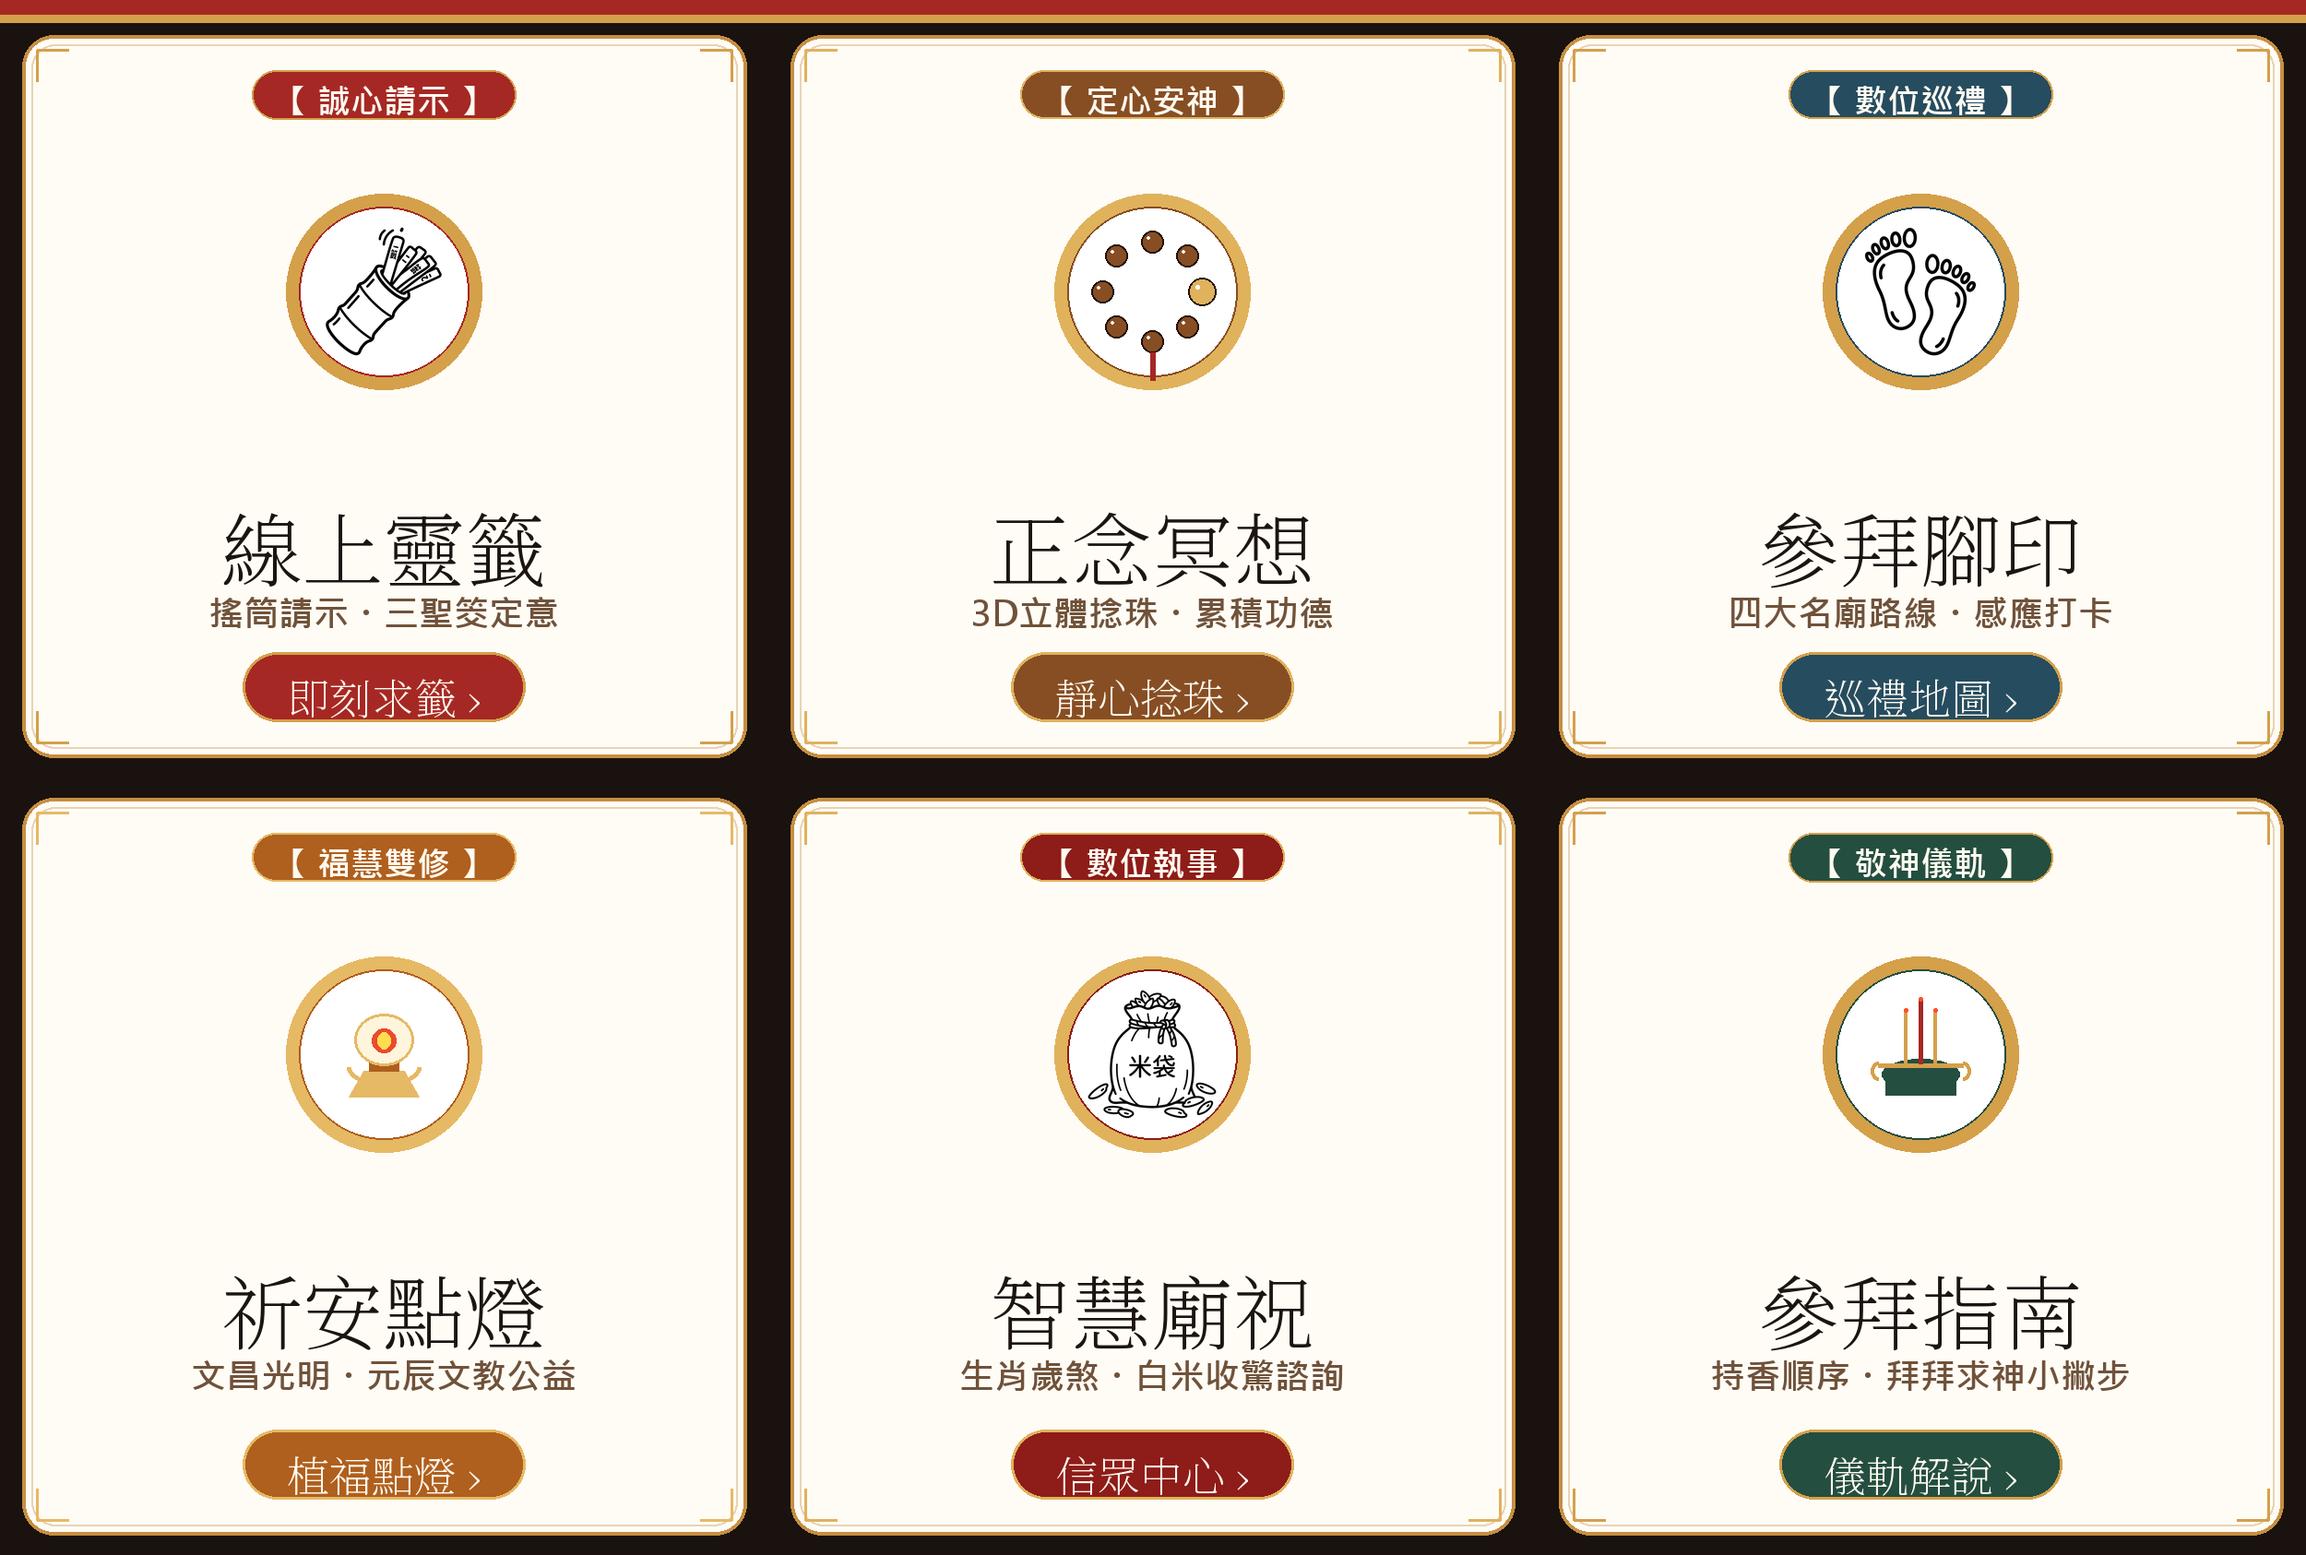
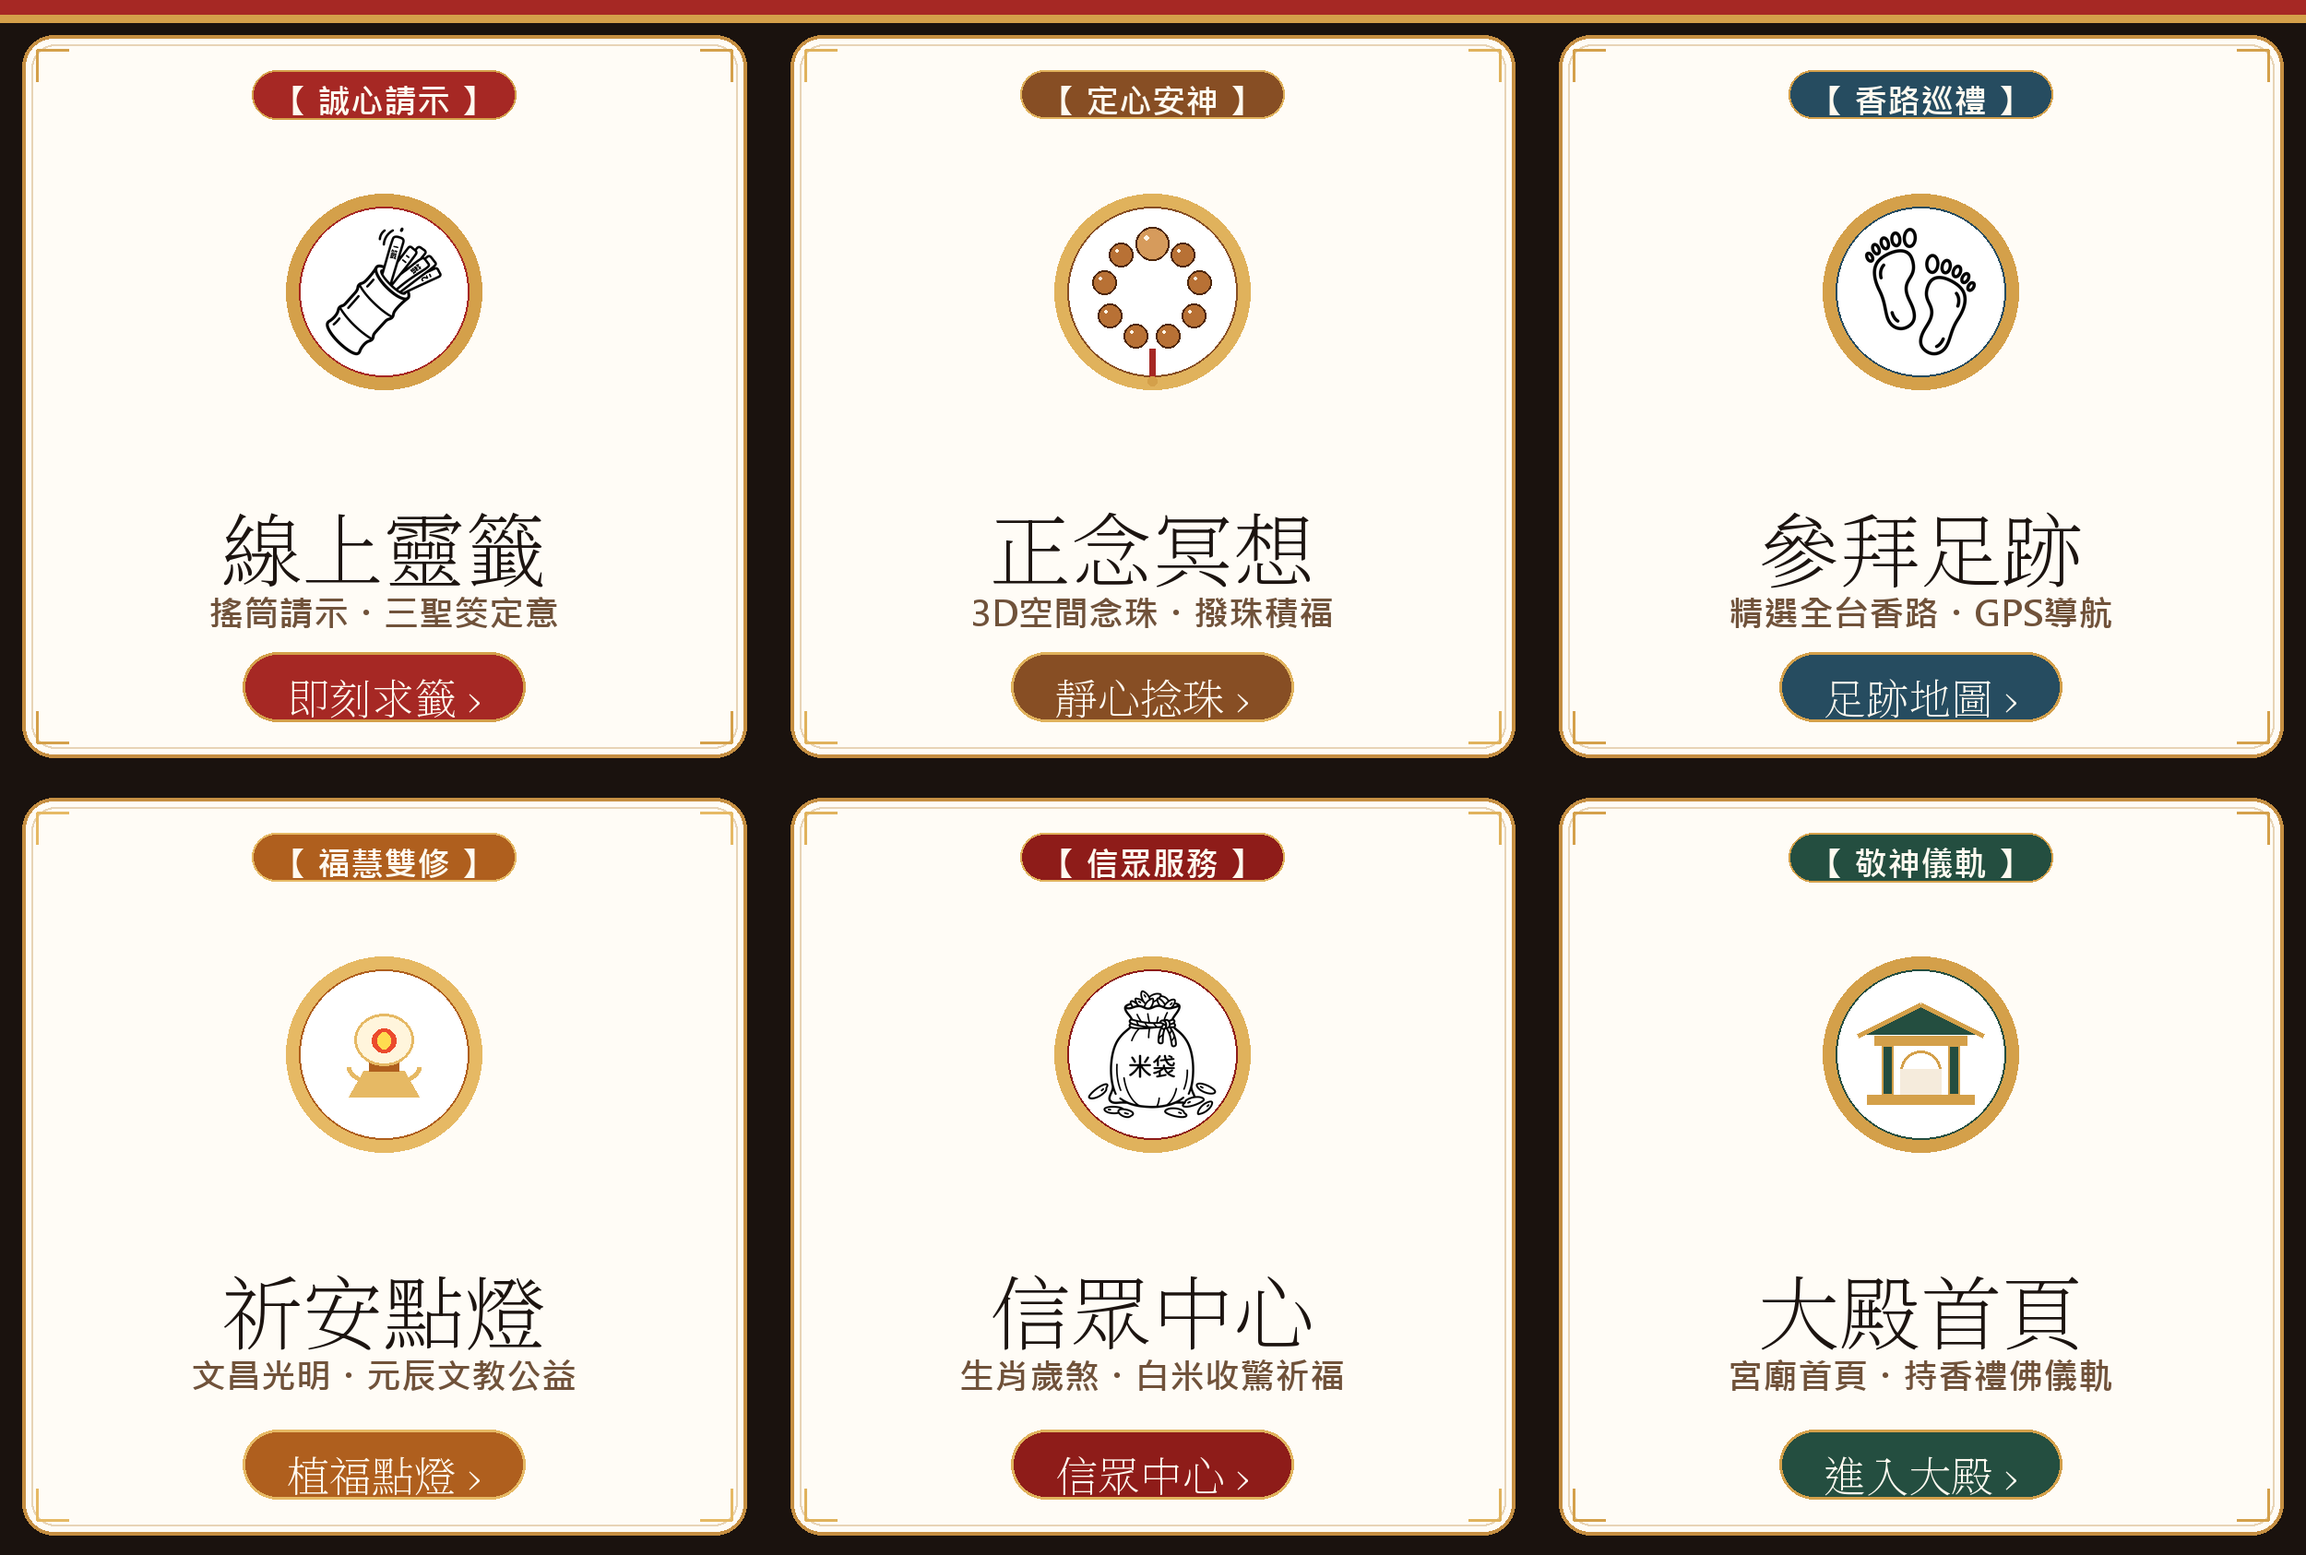
feat(richmenu): update rich menu visual graphics and bind all 6 areas to correct LIFF routing URLs

diff --git a/index.html b/index.html
@@ -4506,12 +4506,32 @@
       initTipsTicker();
       initLbFooterTicker();
 
-      // 檢查網址是否有 ?page=divination 或 ?page=meditation
+      // 依據 URL 參數（?page=... 或 ?modal=...）自動導航至對應頁面或彈窗
       const urlParams = new URLSearchParams(window.location.search);
-      if (urlParams.get('page') === 'divination') {
+      const targetPage = urlParams.get('page');
+      const targetModal = urlParams.get('modal');
+
+      if (targetPage === 'divination' || targetPage === 'shake') {
         openDivinationFlow();
-      } else if (urlParams.get('page') === 'meditation') {
+      } else if (targetPage === 'meditation') {
         openMeditationPage();
+      } else if (targetPage === 'routes' || targetPage === 'footprints') {
+        openRouteListPage();
+      } else if (targetPage === 'routedetail') {
+        const routeId = urlParams.get('route') || 'wanchun';
+        openRouteDetailPage(routeId);
+      } else if (targetPage === 'lighting') {
+        openLightingPage();
+      } else if (targetPage === 'profile' || targetModal === 'profile') {
+        openLbModal('profileModal');
+      } else if (targetModal === 'zodiac') {
+        openLbModal('zodiacModal');
+      } else if (targetModal === 'shoujing') {
+        openLbModal('shoujingModal');
+      } else if (targetModal === 'sticker') {
+        openLbModal('stickerModal');
+      } else if (targetModal === 'charity') {
+        openLbModal('charityModal');
       }
     });
 

diff --git a/backend/generate_richmenu.py b/backend/generate_richmenu.py
@@ -45,7 +45,7 @@ def create_rich_menu():
     draw.rectangle([0, 0, WIDTH, 16], fill=(166, 40, 36, 255))
     draw.rectangle([0, 16, WIDTH, 24], fill=(212, 160, 74, 255))
 
-    # 六宮格卡片設定
+    # 六宮格卡片設定 (精準對齊 LIFF 五大功能與大殿首頁)
     cards_config = [
         {
             "col": 0, "row": 0,
@@ -61,7 +61,7 @@ def create_rich_menu():
             "col": 1, "row": 0,
             "badge": "【 定心安神 】",
             "title": "正念冥想",
-            "subtitle": "3D立體捻珠・累積功德",
+            "subtitle": "3D空間念珠・撥珠積福",
             "cta": "靜心捻珠 ›",
             "theme": (135, 78, 36),     # 檀木棕
             "gold": (224, 178, 92),
@@ -70,10 +70,10 @@ def create_rich_menu():
         },
         {
             "col": 2, "row": 0,
-            "badge": "【 數位巡禮 】",
-            "title": "參拜腳印",
-            "subtitle": "四大名廟路線・感應打卡",
-            "cta": "巡禮地圖 ›",
+            "badge": "【 香路巡禮 】",
+            "title": "參拜足跡",
+            "subtitle": "精選全台香路・GPS導航",
+            "cta": "足跡地圖 ›",
             "theme": (38, 76, 96),      # 群青靛藍
             "gold": (212, 160, 74),
             "asset_icon": "腳印收集.png"
@@ -91,9 +91,9 @@ def create_rich_menu():
         },
         {
             "col": 1, "row": 1,
-            "badge": "【 數位執事 】",
-            "title": "智慧廟祝",
-            "subtitle": "生肖歲煞・白米收驚諮詢",
+            "badge": "【 信眾服務 】",
+            "title": "信眾中心",
+            "subtitle": "生肖歲煞・白米收驚祈福",
             "cta": "信眾中心 ›",
             "theme": (142, 28, 25),     # 宮廟絳紅
             "gold": (224, 178, 92),
@@ -102,13 +102,13 @@ def create_rich_menu():
         {
             "col": 2, "row": 1,
             "badge": "【 敬神儀軌 】",
-            "title": "參拜指南",
-            "subtitle": "持香順序・拜拜求神小撇步",
-            "cta": "儀軌解說 ›",
+            "title": "大殿首頁",
+            "subtitle": "宮廟首頁・持香禮佛儀軌",
+            "cta": "進入大殿 ›",
             "theme": (36, 78, 64),      # 翡翠碧青
             "gold": (212, 160, 74),
             "asset_icon": None,
-            "custom_icon": "incense"
+            "custom_icon": "temple"
         }
     ]
 
@@ -222,18 +222,22 @@ def create_rich_menu():
 
 def draw_custom_icon(draw, cx, cy, icon_type, theme, gold):
     if icon_type == "beads":
-        # 3D 佛珠串
-        r = 54
-        num_beads = 8
+        # 3D 檀木佛珠手串 (精緻原木光澤與穿繩流蘇)
+        r = 52
+        num_beads = 9
         for i in range(num_beads):
-            ang = i * (2 * math.pi / num_beads)
+            ang = i * (2 * math.pi / num_beads) - math.pi / 2
             bx = cx + r * math.cos(ang)
             by = cy + r * math.sin(ang)
-            br = 15 if i == 0 else 12
-            b_fill = gold if i == 0 else theme
-            draw.ellipse([bx - br, by - br, bx + br, by + br], fill=b_fill, outline=(36, 18, 10, 180), width=2)
-            draw.ellipse([bx - br//2, by - br//2, bx - br//4, by - br//4], fill=(255, 255, 255, 210))
-        draw.line([cx, cy + r + 12, cx, cy + r + 42], fill=(166, 40, 36), width=6)
+            br = 18 if i == 0 else 13
+            b_fill = (214, 155, 92) if i == 0 else (184, 113, 53)
+            b_edge = (78, 39, 10)
+            draw.ellipse([bx - br, by - br, bx + br, by + br], fill=b_fill, outline=b_edge, width=2)
+            # 珠體高光
+            draw.ellipse([bx - br//2, by - br//2, bx - br//4, by - br//4], fill=(255, 245, 230, 200))
+        # 佛頭結與流蘇
+        draw.line([cx, cy + r + 10, cx, cy + r + 42], fill=(166, 40, 36), width=7)
+        draw.ellipse([cx - 5, cy + r + 40, cx + 5, cy + r + 50], fill=(212, 160, 74))
 
     elif icon_type == "lamp":
         # 光明蓮花祈福燈
@@ -243,6 +247,23 @@ def draw_custom_icon(draw, cx, cy, icon_type, theme, gold):
         draw.ellipse([cx - 32, cy - 44, cx + 32, cy + 12], fill=(255, 245, 220, 230), outline=gold, width=3)
         draw.ellipse([cx - 13, cy - 28, cx + 13, cy - 2], fill=(235, 75, 45))
         draw.ellipse([cx - 7, cy - 24, cx + 7, cy - 6], fill=(255, 220, 80))
+
+    elif icon_type == "temple":
+        # 宮廟大殿飛簷殿堂造型
+        # 屋頂飛簷
+        draw.polygon([(cx, cy - 54), (cx - 62, cy - 22), (cx + 62, cy - 22)], fill=theme)
+        draw.line([cx - 68, cy - 20, cx, cy - 54], fill=gold, width=5)
+        draw.line([cx + 68, cy - 20, cx, cy - 54], fill=gold, width=5)
+        # 橫樑與斗栱
+        draw.rectangle([cx - 50, cy - 20, cx + 50, cy - 10], fill=gold)
+        # 殿堂立柱
+        draw.rectangle([cx - 42, cy - 10, cx - 30, cy + 44], fill=theme, outline=gold, width=2)
+        draw.rectangle([cx + 30, cy - 10, cx + 42, cy + 44], fill=theme, outline=gold, width=2)
+        # 正門拱券
+        draw.arc([cx - 22, cy - 4, cx + 22, cy + 40], 180, 0, fill=gold, width=3)
+        draw.rectangle([cx - 22, cy + 16, cx + 22, cy + 44], fill=(245, 235, 220))
+        # 殿基台階
+        draw.rectangle([cx - 58, cy + 44, cx + 58, cy + 54], fill=gold)
 
     elif icon_type == "incense":
         # 三足大鼎銅爐與清香

diff --git a/backend/deploy_richmenu.py b/backend/deploy_richmenu.py
@@ -37,16 +37,16 @@ RICH_MENU_SCHEMA = {
     "name": "智慧宮廟六宮格文化圖文選單",
     "chatBarText": "🏮 點此開啟宮廟功能選單",
     "areas": [
-        # 1. 左上：線上靈籤 (LIFF 抽籤)
+        # 1. 左上：線上靈籤 (LIFF 搖筒抽籤與請示)
         {
             "bounds": {"x": 0, "y": 0, "width": 833, "height": 843},
             "action": {
                 "type": "uri",
                 "label": "線上靈籤",
-                "uri": "https://liff.line.me/2011668576-3Qay1nBv"
+                "uri": "https://liff.line.me/2011668576-3Qay1nBv?page=divination"
             }
         },
-        # 2. 中上：正念冥想 (3D 捻珠)
+        # 2. 中上：正念冥想 (3D 立體念珠撥珠)
         {
             "bounds": {"x": 833, "y": 0, "width": 834, "height": 843},
             "action": {
@@ -55,16 +55,16 @@ RICH_MENU_SCHEMA = {
                 "uri": "https://liff.line.me/2011668576-3Qay1nBv?page=meditation"
             }
         },
-        # 3. 右上：參拜腳印 (四大巡禮路線)
+        # 3. 右上：參拜足跡 (精選香路與 GPS 導航)
         {
             "bounds": {"x": 1667, "y": 0, "width": 833, "height": 843},
             "action": {
                 "type": "uri",
-                "label": "參拜腳印",
+                "label": "參拜足跡",
                 "uri": "https://liff.line.me/2011668576-3Qay1nBv?page=routes"
             }
         },
-        # 4. 左下：祈安點燈 (點燈與公益)
+        # 4. 左下：祈安點燈 (線上光明燈與公益認捐)
         {
             "bounds": {"x": 0, "y": 843, "width": 833, "height": 843},
             "action": {
@@ -73,22 +73,22 @@ RICH_MENU_SCHEMA = {
                 "uri": "https://liff.line.me/2011668576-3Qay1nBv?page=lighting"
             }
         },
-        # 5. 中下：智慧廟祝 (信眾中心 / 歲煞收驚)
+        # 5. 中下：信眾中心 (生肖歲煞排盤與白米收驚)
         {
             "bounds": {"x": 833, "y": 843, "width": 834, "height": 843},
             "action": {
-                "type": "message",
-                "label": "智慧廟祝",
-                "text": "智慧廟祝"
+                "type": "uri",
+                "label": "信眾中心",
+                "uri": "https://liff.line.me/2011668576-3Qay1nBv?page=profile"
             }
         },
-        # 6. 右下：參拜指南 (持香儀軌與拜拜小撇步)
+        # 6. 右下：大殿首頁 (宮廟大殿首頁與敬神儀軌)
         {
             "bounds": {"x": 1667, "y": 843, "width": 833, "height": 843},
             "action": {
-                "type": "message",
-                "label": "參拜指南",
-                "text": "參拜指南"
+                "type": "uri",
+                "label": "大殿首頁",
+                "uri": "https://liff.line.me/2011668576-3Qay1nBv"
             }
         }
     ]
